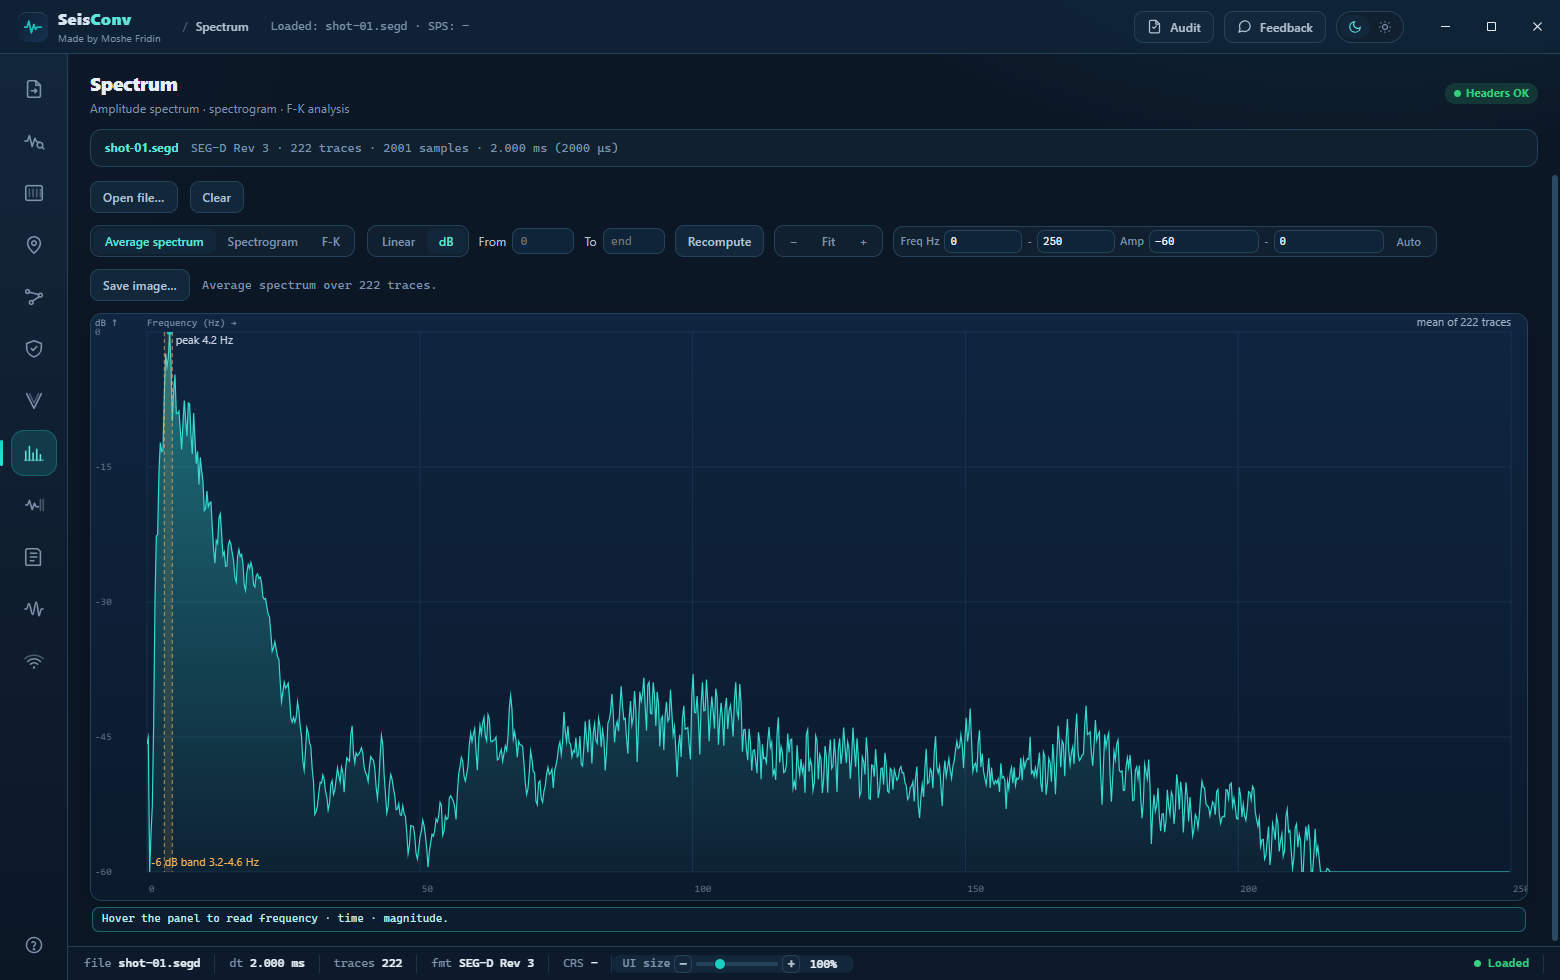
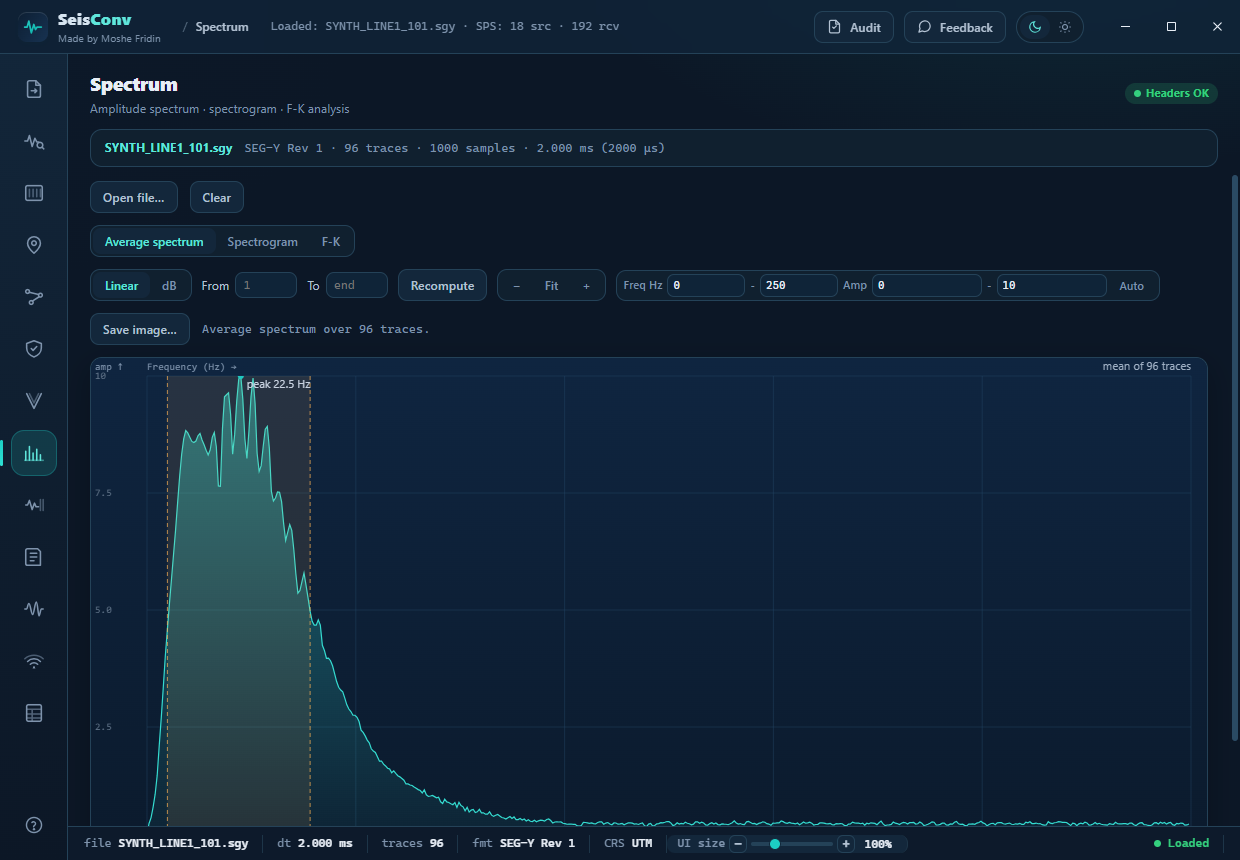
docs(readme): re-shoot the hero and the tab screenshots with the thirteen-tab rail
The hero and eight README screenshots still showed a twelve-icon rail with
no Parameters Sheet. All nine are re-shot from the current build on the
secondary display at 1240x860 (the old screenshots were 1560x980), on a
fresh profile, from the synthetic docs/manual/fixtures.mjs records, and
every frame passed the frame-safety denylist and was read by eye.

The hero is now a synthetic record (96 traces, grey positive-black, time
gain t^1), so its caption and the data disclosure say so. The feature
figures further down remain real anonymous field records.

design/screenshots/fileviewer.png is not referenced anywhere and was left.

diff --git a/README.md b/README.md
@@ -27,7 +27,7 @@
 <p align="center">
   <img src="design/promo/hero-file-viewer.png" width="94%" alt="The SeisConv File Viewer showing a full shot record as a variable-density section"/>
 </p>
-<p align="center"><sub>The File Viewer. One shot record, 222 traces, the first two seconds of it, and the display state printed inside the picture.</sub></p>
+<p align="center"><sub>The File Viewer. One synthetic shot record, 96 traces, two seconds of it, and the display state printed inside the picture.</sub></p>
 
 <p align="center">
   <b><a href="#download">Download for Windows</a></b> &nbsp;&middot;&nbsp;
@@ -37,13 +37,14 @@
 </p>
 
 <p align="center"><sub>
-  <b>The seismic in these figures is real field data, and it is anonymous.</b> The records were copied out of a
+  <b>The seismic in the feature figures is real field data, and it is anonymous.</b> The records were copied out of a
   field archive under neutral names, and nothing that identifies them travels with the samples: no survey, line,
   area, client or site name, no coordinate of any kind, no station, line or field-record number, no file name and
   no machine path. Every frame was checked against a forbidden-token denylist and read back by eye before it was
-  written. The survey-geometry panels, the reduced-time figure and the velocity semblance are the exception: they are still generated by
-  <a href="docs/manual/fixtures.mjs"><code>docs/manual/fixtures.mjs</code></a> at an obviously artificial origin,
-  because geometry is coordinates by definition, and because these records carry no offset header, which both reduced time and a semblance panel need.
+  written. The picture above, the tab screenshots, the survey-geometry panels, the reduced-time figure and the velocity semblance are the
+  exception: they are drawn on synthetic records generated by
+  <a href="docs/manual/fixtures.mjs"><code>docs/manual/fixtures.mjs</code></a> at an obviously artificial origin. Geometry is coordinates by
+  definition, and the field records carry no offset header, which both reduced time and a semblance panel need.
 </sub></p>
 
 ---
